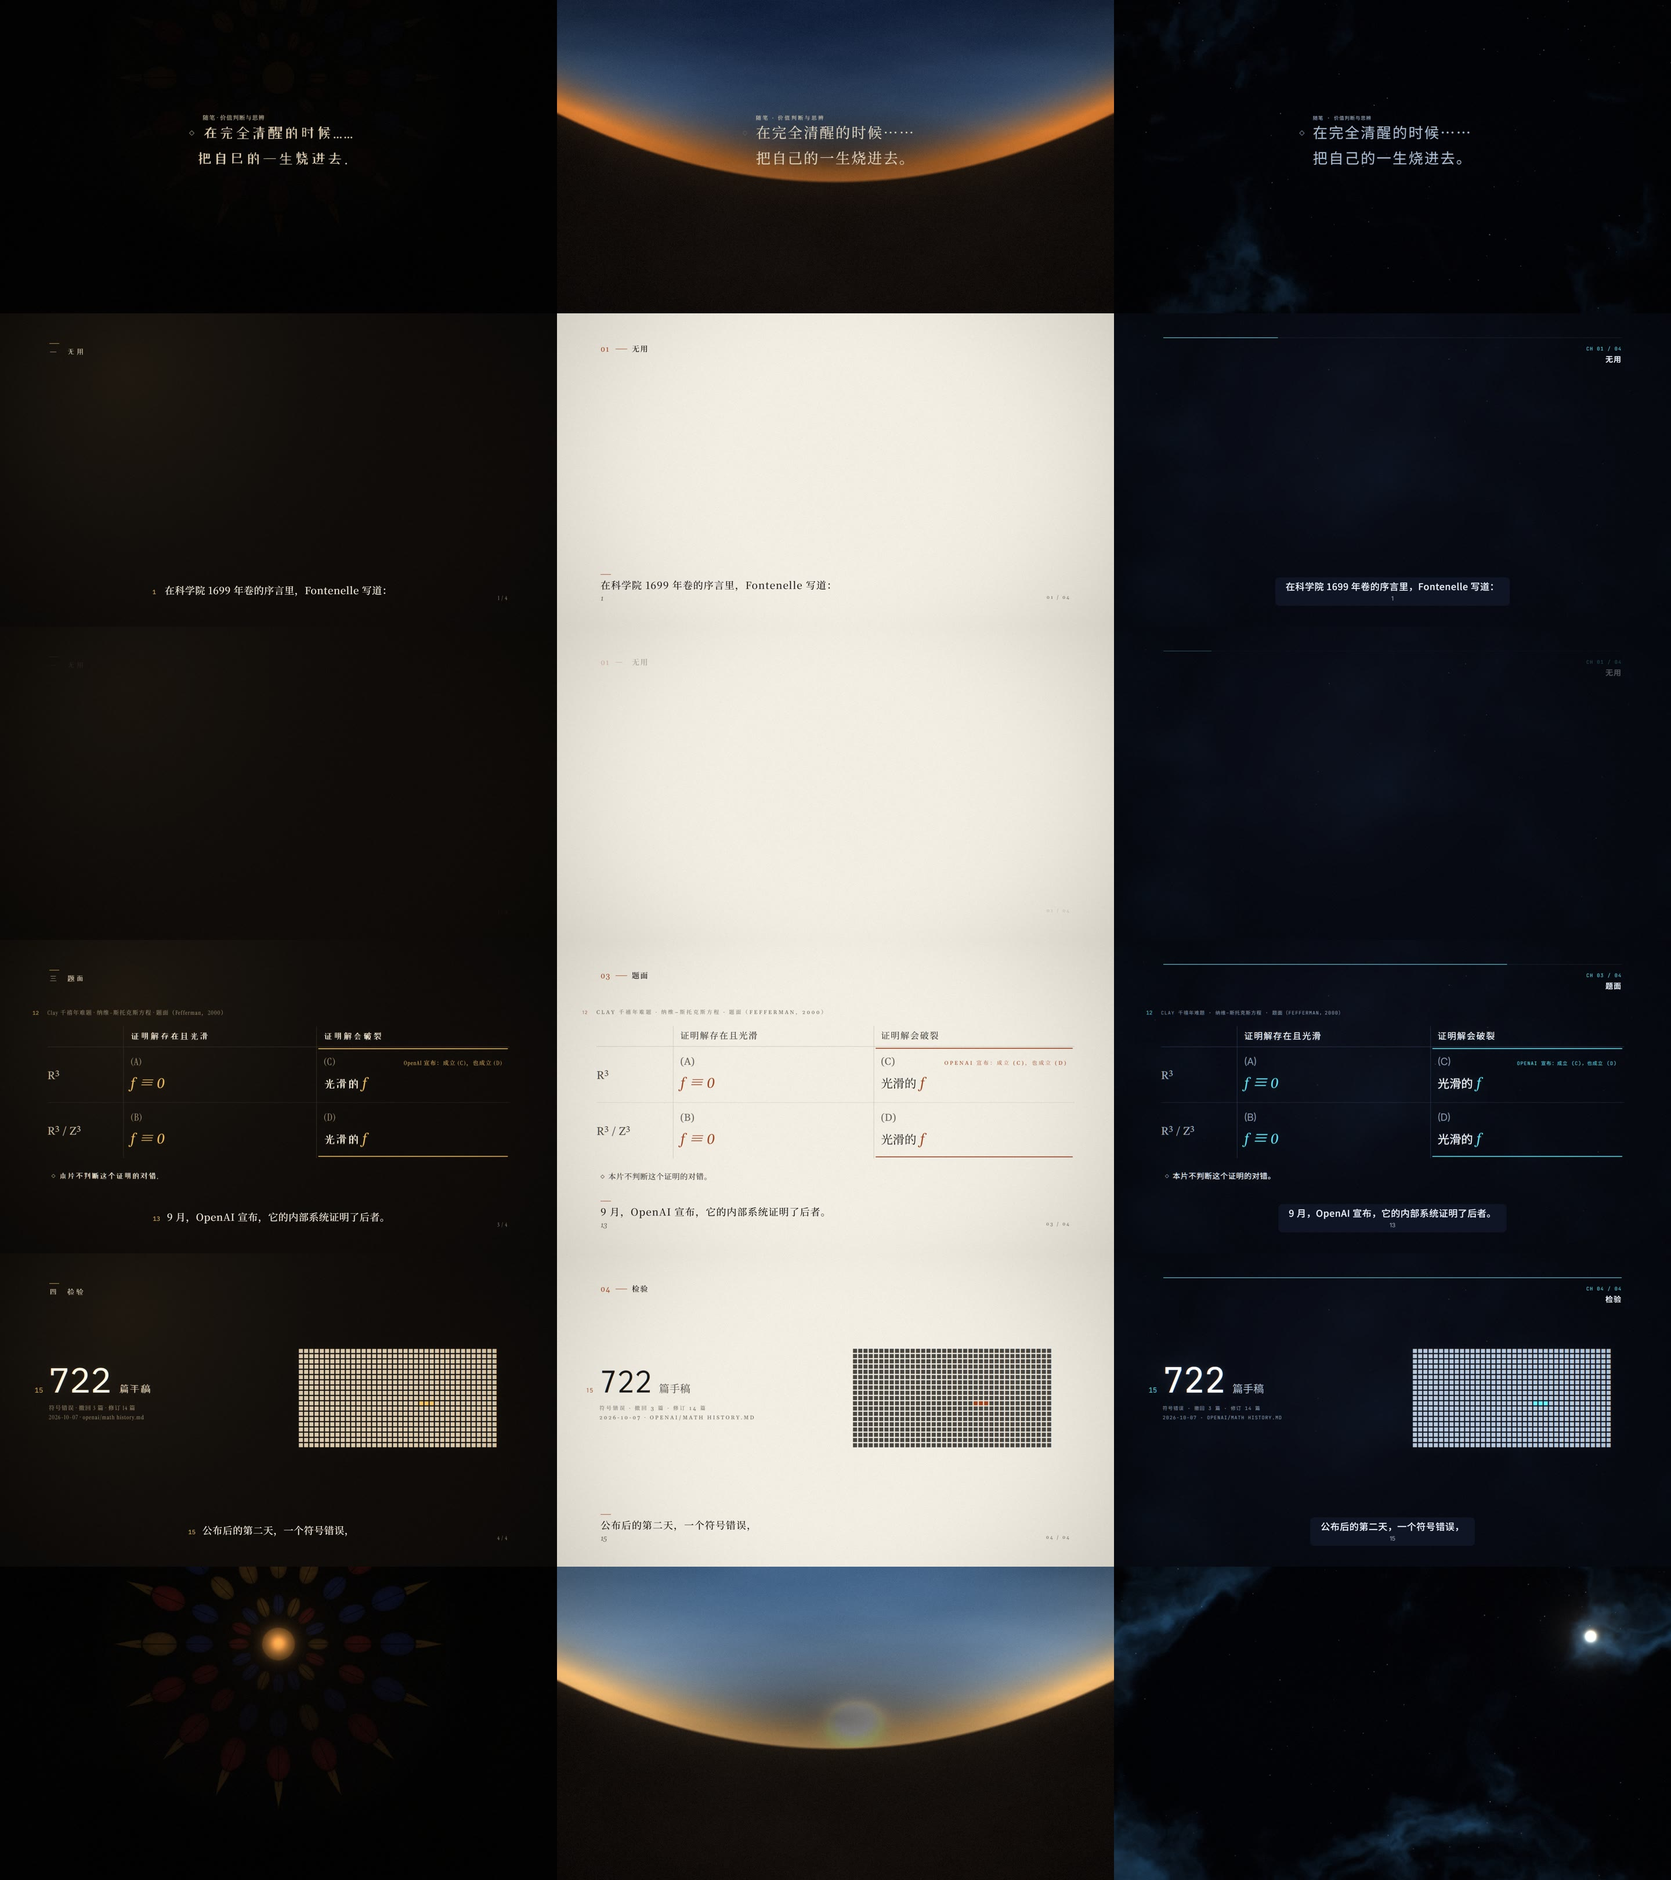
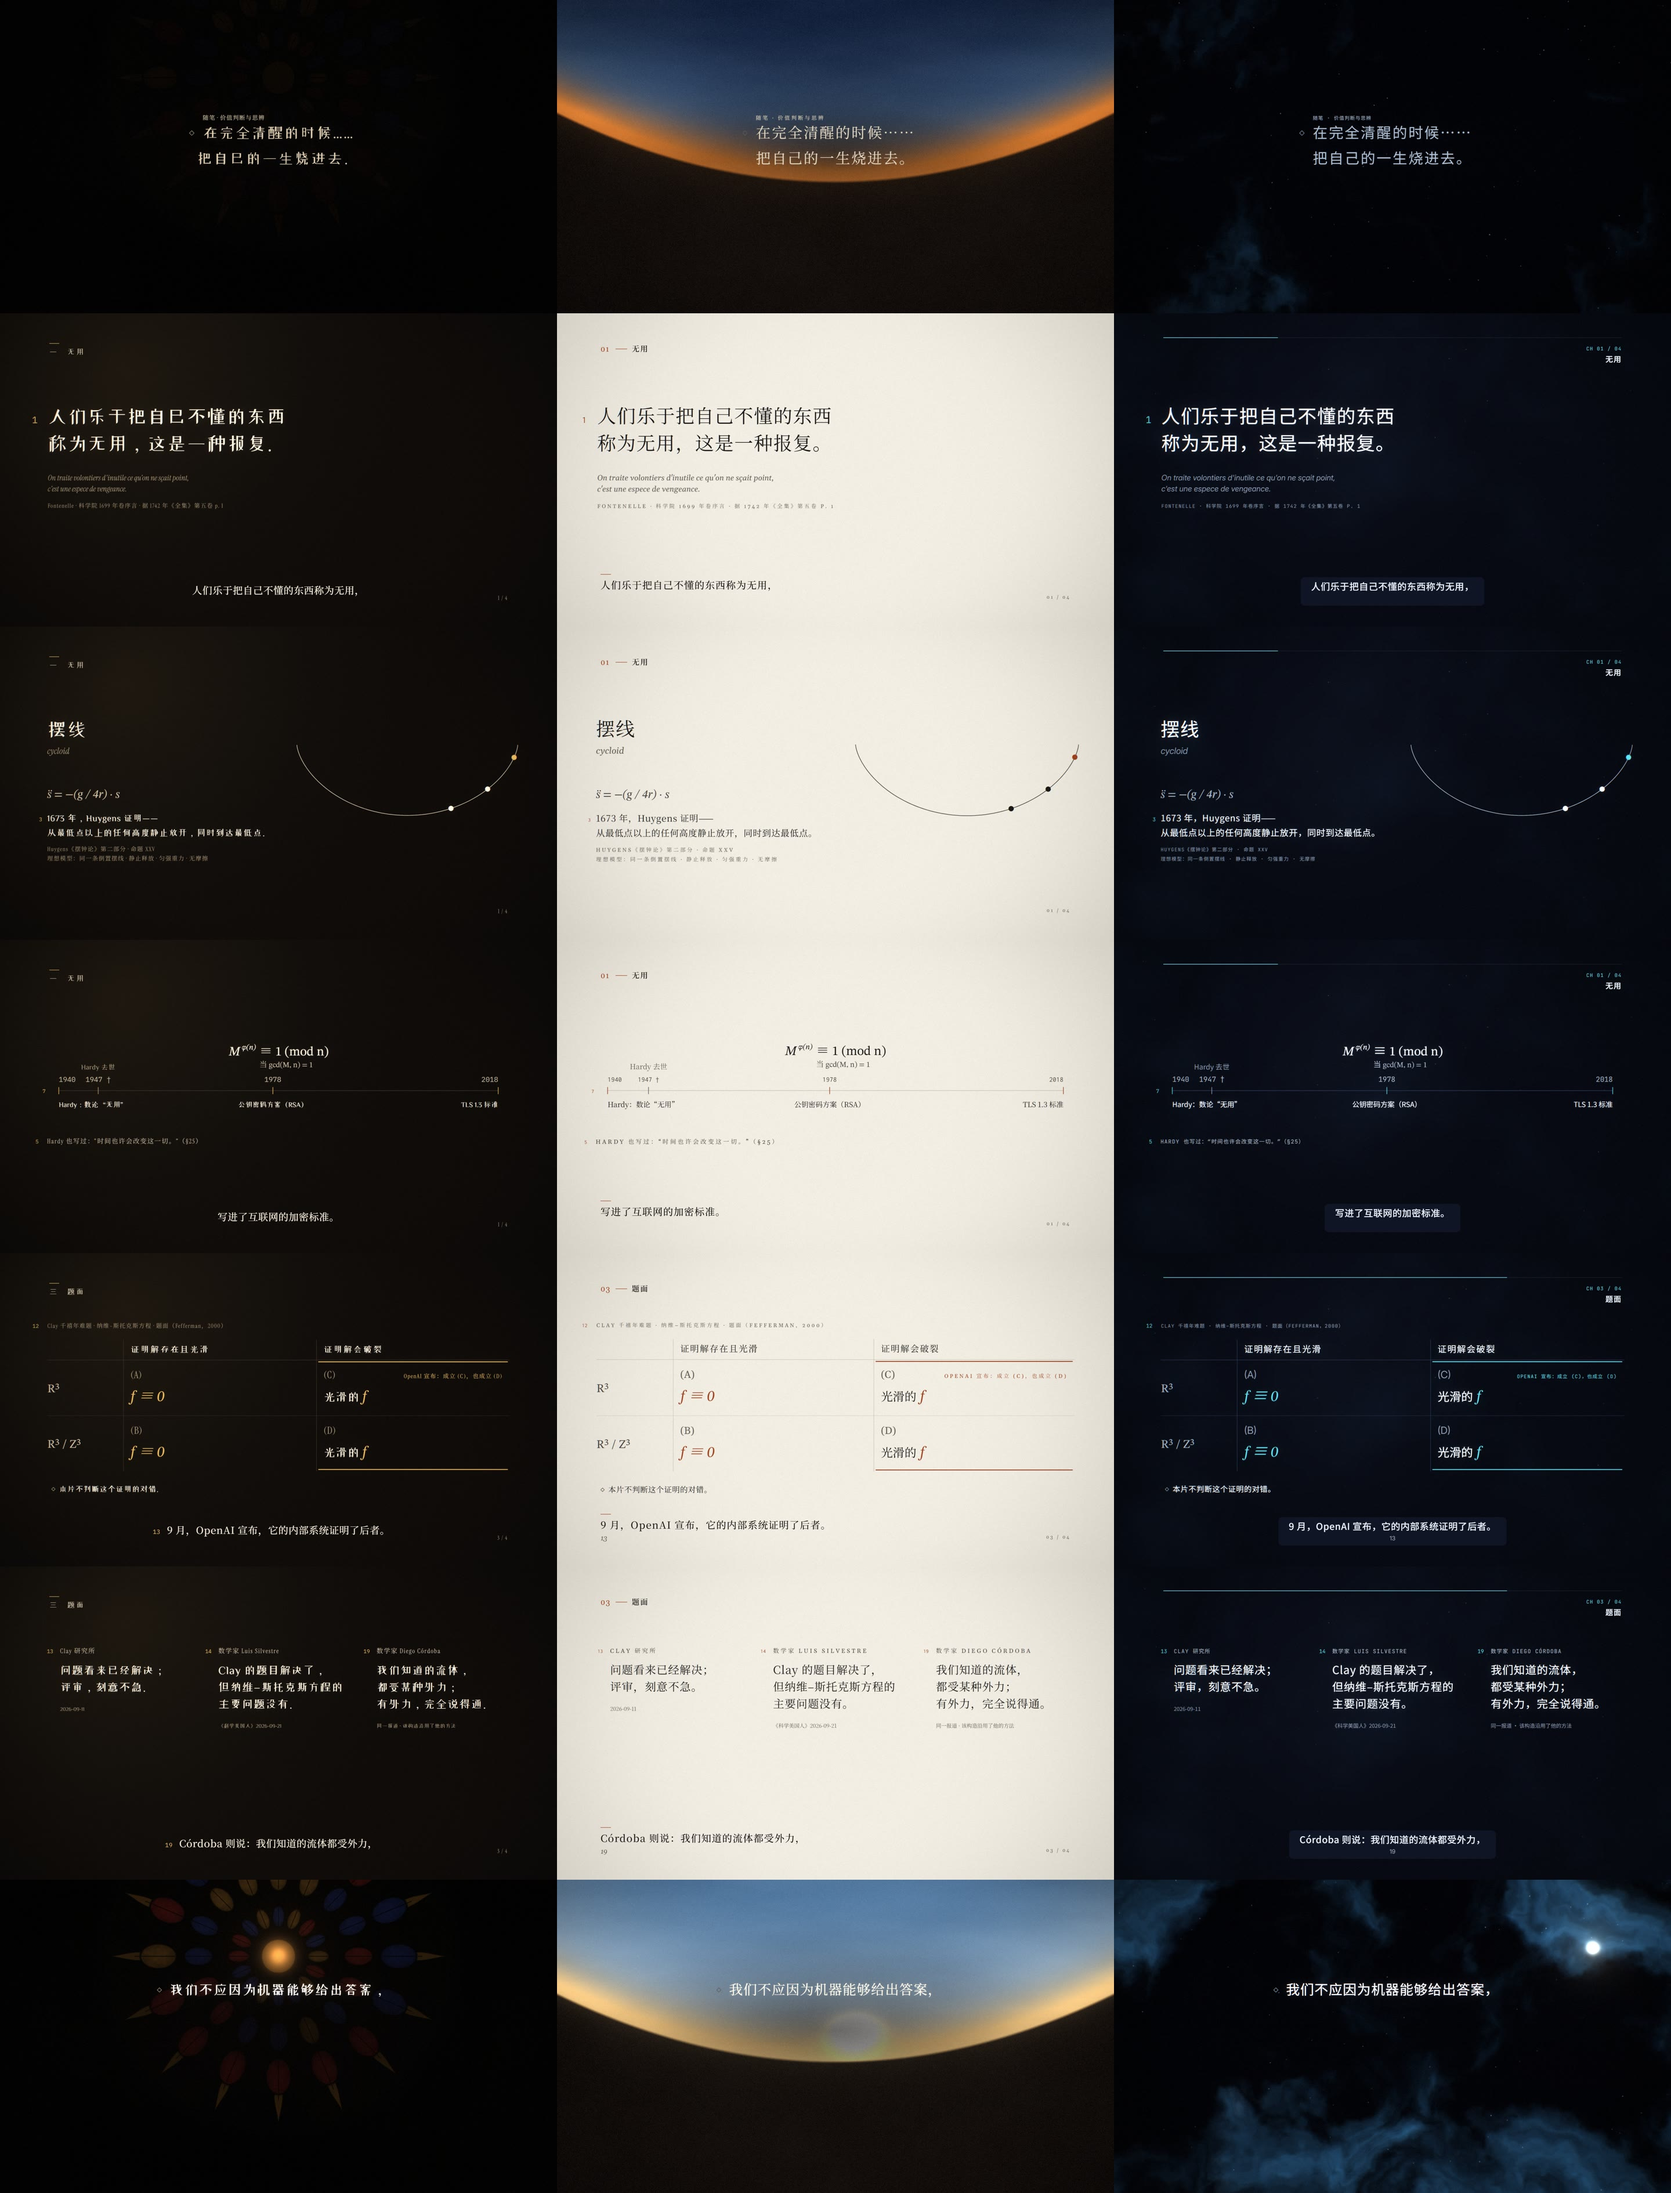
math-lessons: final export (299.5 s, 8,985 frames, with score), acceptance record (07-final), comparison sheet with paper-dawn and nebula re-rendered at representative moments, workflow note on render contention between sessions

diff --git a/films/math-lessons/review/07-final.md b/films/math-lessons/review/07-final.md
@@ -1,0 +1,36 @@
+# 07 · 终稿（v3）验收记录
+
+## 成片
+
+- `out/math-lessons/math-lessons.mp4`：H.264 1920×1080、30 fps、8,985 帧；AAC 音轨；时长 299.500 s；1,373.9 MB（crf 18）。
+- 命令：`just all math-lessons`（cues → music → export）。前三次导出失败，原因与片子无关：
+  1. 第一次被我自己的输出过滤掩盖了错误信息；
+  2. 第二次 "Waiting failed: 60000ms exceeded"、第三次 "Runtime.callFunctionOn timed out"——同一时间另一个会话在主工作树上跑 `test-export` / `validate` / `regress --film infotheory`
+     （regress 用 SwiftShader 软件渲染，占满 CPU），我的导出被饿死。没有动对方的进程；等其空闲一分钟后，用 2 个 worker 重导成功。
+- 速度：本次 **6.1 帧/秒**（2 个 worker，24.8 分钟）；无竞争时的 v0 导出为 10.7 帧/秒（4 个 worker）。
+- 从 mp4 本身抽帧核对（44、59.5、85、160 s）：画面为 v3 文本（"有些看似无用的研究"、"Hardy 也写道"、"评估中向模型提出了约 4000 个问题"、Córdoba 一栏）。
+- 配乐：母带 −16.00 LUFS，true peak −2.90 dBTP，47 个音效。
+
+## 完成标准逐条
+
+| 标准 | 结果 |
+|---|---|
+| `just check` | 通过 |
+| `just check-imports` | PASS，65 个文件，0 错误 |
+| `just validate math-lessons` | PASS：48 场次（16 场 × 3 个风格）× 5 帧，1,773 个文字框，**0 错误**，3 个警告。vigil 无警告；3 个警告都在保留作对比的 B、C 方向，均为淡入中途（alpha 0.68–0.77）的对比度：B 的序数 9（4.43:1）、C 的序数 9（3.78:1）、C 的启应答句（2.12:1，大字），淡入结束后都达标 |
+| `just regress` | 参考片 `infotheory`：paper-dawn 231/231、nebula 231/231（第四阶段运行；此后没有改 engine/ 与已有风格，`git diff b663e5b -- engine styles/paper-dawn styles/nebula films/infotheory` 为空）。本片三个风格**尚无基线**：按 skill，等 Develata 认可 vigil 的外观后再录 |
+| 拼图与 paper-dawn、nebula 并排明显不同且符合 brief | review/05-compare-sheet.jpg（7 个时刻 × 3 个风格）。我看过：暖黑、烛金、衬线展示体、玫瑰窗，与米纸地平线、蓝色星云明显不同 |
+| review/ 记录完整 | 01 方向、02 自评（含配乐与性能）、03 冻结前两轮自查、04 盲审与逐条核实、05 并排拼图、06 复核审计、07 本文件、workflow-notes |
+| 用 `just all` 导出带配乐的成片 | 完成（见上） |
+
+## 审计闭环
+
+- v1 独立盲审：不通过（1 阻断、10 应修）；逐条核实后 R1–R14 修订（revisions.md）。
+- v2 复核审计：通过、无阻断；R15–R21 修订。复核审计提出的"需核实"项（标签、记号是否真的显示）由渲染帧核对：显示正常。
+- 片尾按 Develata 决定只写"本片由 Develata 主制"，不写工具与审计。
+
+## 未验证 / 推断
+
+- 未验证：配乐的主观听感（没有人听过）；配音不存在，4 字/秒的语速是假设；动效只看了一处交界的连续帧与若干单帧；
+  Navier–Stokes 证明与其 Lean 形式化的正确性（本片明说不判断）；Fontenelle 1702 年初印本、Hardy 1940 年初版扫描、Huygens 原图。
+- 推断：导出前三次失败的原因是与另一个会话的渲染竞争（时间与进程吻合，空闲后即成功），未做受控复现。

diff --git a/films/math-lessons/review/workflow-notes.md b/films/math-lessons/review/workflow-notes.md
@@ -40,3 +40,6 @@
 14. **我自己的事实表错误被审计抓住。** 第二阶段把 OpenAI 的"按重要性筛选成果"写成"由人挑选问题"，又在"可用表述"里固化，旁白照抄——这是本片唯一的阻断项（R1）。
     教训：事实表的"可用表述"必须与原文的语态和主语一致；被动句不能补出施事者。
 15. **片长的余量很紧。** 补强三处反方后，按 4 字/秒的假设全片 299.5 秒；为此压缩了停顿（见 revisions.md 末段）。配音（阶段 2b）到来后，若语速更慢，必须删句。
+16. **两个会话共用一台机器的 GPU / CPU。** 另一个会话在主工作树上跑 `test-export`、`validate`、`regress`（SwiftShader）时，本片的 `just export` 两次超时
+    （"Waiting failed: 60000ms exceeded"、"Runtime.callFunctionOn timed out"）。导出器没有给出"资源被占用"的提示，错误信息看起来像片子的问题。
+    绕过：等对方空闲后用 2 个 worker 导出。建议：并行会话之间约定渲染时段，或导出器在超时时报告系统负载。

diff --git a/films/math-lessons/README.md b/films/math-lessons/README.md
@@ -19,6 +19,7 @@
 | 修订记录 | research/revisions.md（R1–R21：初稿原句、证据、改句） |
 | 风格选择与自评 | review/01-directions.md（三个方向）、02-vigil.md（自评、配乐与性能）、05-compare-sheet.jpg（与 paper-dawn、nebula 并排） |
 | 流程记录 | review/workflow-notes.md |
+| 终稿验收 | review/07-final.md |
 | 成片 | out/math-lessons/math-lessons.mp4（不入库；由 `just all math-lessons` 生成） |
 
 命令：`just fonts math-lessons`、`just validate math-lessons`、`just sheet math-lessons`、`just all math-lessons`。
